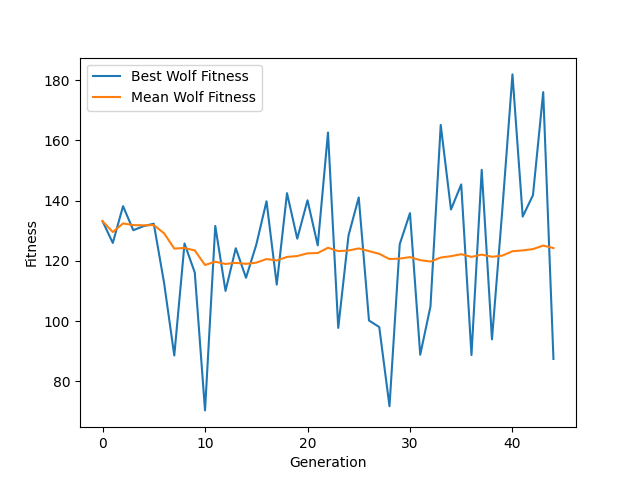
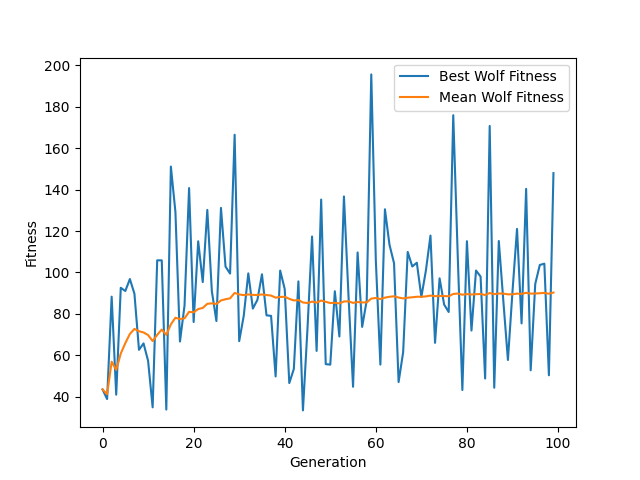
fixed reproduction bug
simulation children weren't being passed down as parents for the evolutionary algorithm

diff --git a/src/evolutionary_algorithm.py b/src/evolutionary_algorithm.py
@@ -19,21 +19,41 @@ def fitness_function(e: Entity, s: float, n: int):
     
     return entity_survival + generational_duration
 
+
 def select_parents(population, num_parents, sim_time, n_entities):
     population.sort(key=lambda x: fitness_function(x, sim_time, n_entities), reverse=True)
     return population[:num_parents]
 
 def crossover_sheep(parent_1, parent_2):
     child_params = {}
-    for param in parent_1.nn.get_params().keys():
-        child_params[param] = parent_1.nn.get_params()[param] if random() > 0.5 else parent_2.nn.get_params()[param]
+    parent_1_params = list(parent_1.nn.get_params().items())
+    parent_2_params = list(parent_2.nn.get_params().items())
+    crossover_point = int(len(parent_1_params) / 2)
+    
+    for i in range(len(parent_1_params)):
+        param_key = parent_1_params[i][0]
+        if i <= crossover_point:
+            child_params[param_key] = parent_1_params[i][1]
+        else:
+            child_params[param_key] = parent_2_params[i][1]
+    
     return Sheep(parent_1.env, parent_1.env.sprite_manager, v2_0, NeuralNetwork(params=child_params))
 
 def crossover_wolf(parent_1, parent_2):
     child_params = {}
-    for param in parent_1.nn.get_params().keys():
-        child_params[param] = parent_1.nn.get_params()[param] if random() > 0.5 else parent_2.nn.get_params()[param]
+    parent_1_params = list(parent_1.nn.get_params().items())
+    parent_2_params = list(parent_2.nn.get_params().items())
+    crossover_point = int(len(parent_1_params) / 2)
+    
+    for i in range(len(parent_1_params)):
+        param_key = parent_1_params[i][0]
+        if i <= crossover_point:
+            child_params[param_key] = parent_1_params[i][1]
+        else:
+            child_params[param_key] = parent_2_params[i][1]
+    
     return Wolf(parent_1.env, parent_1.env.sprite_manager, v2_0, NeuralNetwork(params=child_params))
+
 
 def mutate_sheep(sheep):
     for param in sheep.nn.get_params().keys():

diff --git a/src/config.py b/src/config.py
@@ -2,12 +2,12 @@ import pygame as pg
 import torch
 
 # Pygame constants
-WIDTH: int = 644
-HEIGHT: int = 644
+WIDTH: int = 322
+HEIGHT: int = 322
 TILE_SIZE: int = 16
 TITLE: str = "Wolf-Sheep predation model"
 FPS: int = 60 
-SCALING_FACTOR: int = 1
+SCALING_FACTOR: int = 2
 
 # Type alias
 v2 = pg.math.Vector2
@@ -28,8 +28,8 @@ SHEEP_MALE_ODDS: float = 0.5
 WOLF_MALE_ODDS: float = 0.5
 
 # Evolutionary algorithm settings
-SHEEP_POPULATION: int = 150
-WOLF_POPULATION: int = 50
+SHEEP_POPULATION: int = 20
+WOLF_POPULATION: int = 10
 SEARCH_RADIUS: float = WIDTH
 REPRODUCTION_REWARD: float = 150.0
 PREDATORY_REWARD: float = 100.0

diff --git a/src/sheep.py b/src/sheep.py
@@ -36,6 +36,7 @@ class Sheep(Entity):
                                 v2(random() * WIDTH, random() * HEIGHT),
                                 NeuralNetwork())
                     child.energy = CHILD_ENERGY
+                    self.env.sheeps.append(child)
                     self.env.sheep_history.append(self.env.sheeps[-1])
     
     def respawn(self):
